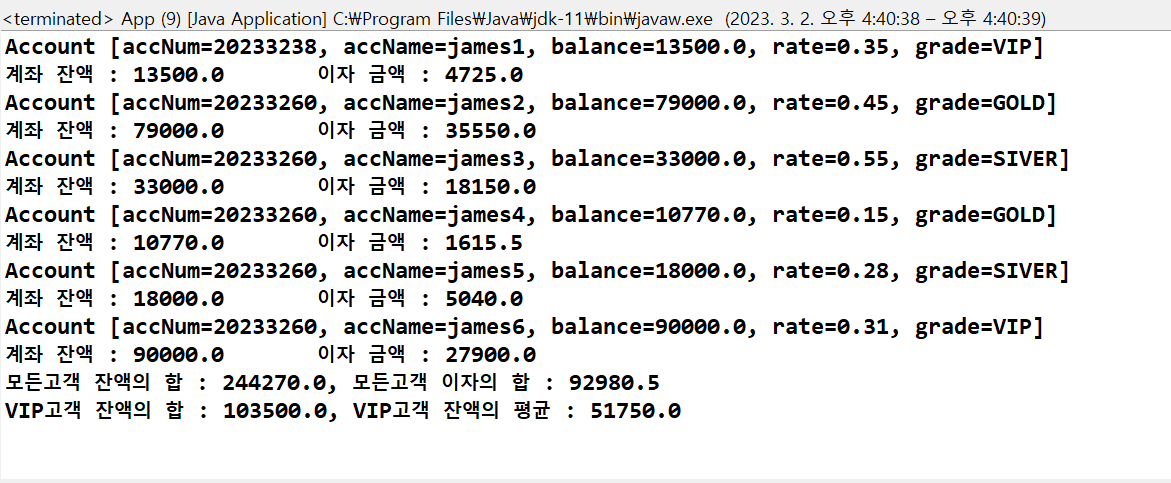
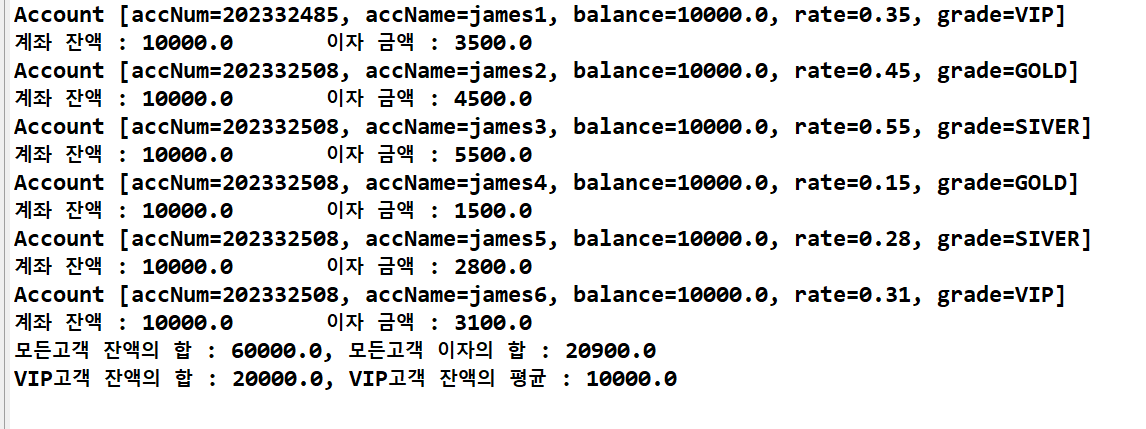
0302 assignment

Changed region(s): [[0.0, 0.0, 1.0, 0.9091]]

diff --git a/assignment/src/ws0302/App.java b/assignment/src/ws0302/App.java
@@ -4,12 +4,12 @@ public class App {
 
 	public static void main(String[] args) {
 		Account account[] = new Account[6];
-		account[0] = new Account("james1", 13500, 0.35, "VIP");
-		account[1] = new Account("james2", 79000, 0.45, "GOLD");
-		account[2] = new Account("james3", 33000, 0.55, "SIVER");
-		account[3] = new Account("james4", 10770, 0.15, "GOLD");
-		account[4] = new Account("james5", 18000, 0.28, "SIVER");
-		account[5] = new Account("james6", 90000, 0.31, "VIP");
+		account[0] = new Account("james1", 10000, 0.35, "VIP");
+		account[1] = new Account("james2", 10000, 0.45, "GOLD");
+		account[2] = new Account("james3", 10000, 0.55, "SIVER");
+		account[3] = new Account("james4", 10000, 0.15, "GOLD");
+		account[4] = new Account("james5", 10000, 0.28, "SIVER");
+		account[5] = new Account("james6", 10000, 0.31, "VIP");
 		
 		for (Account acc : account) {
 			System.out.println(acc);
